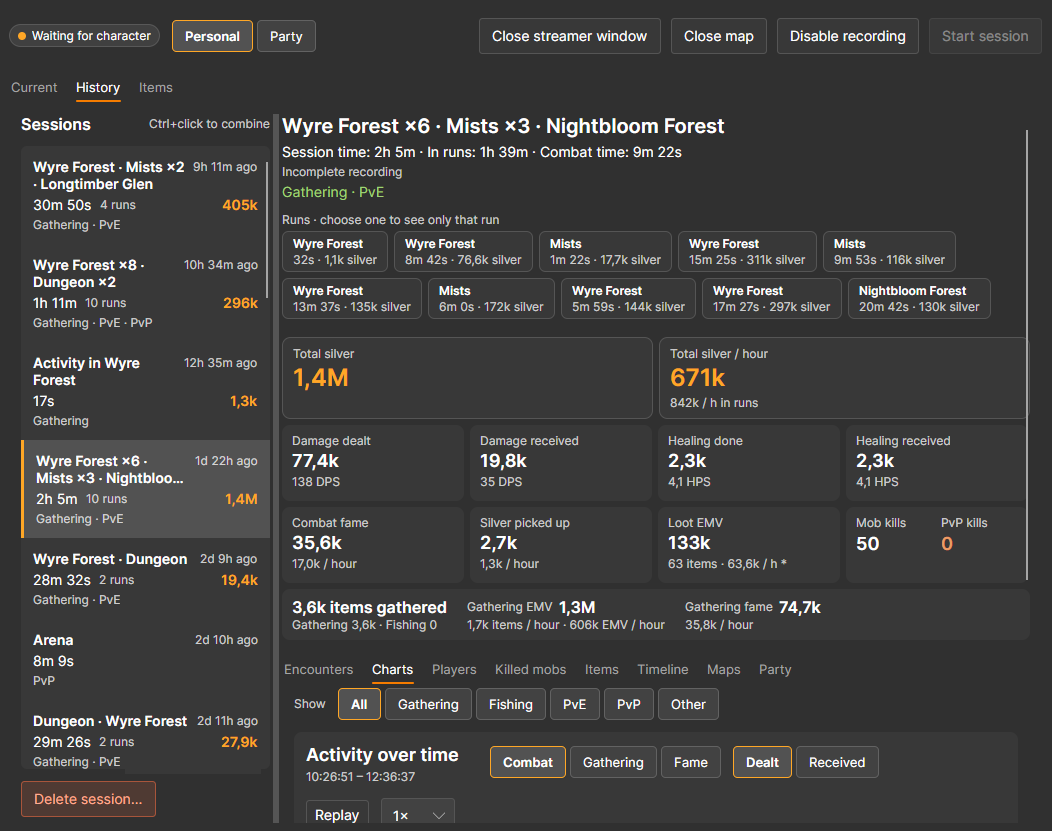
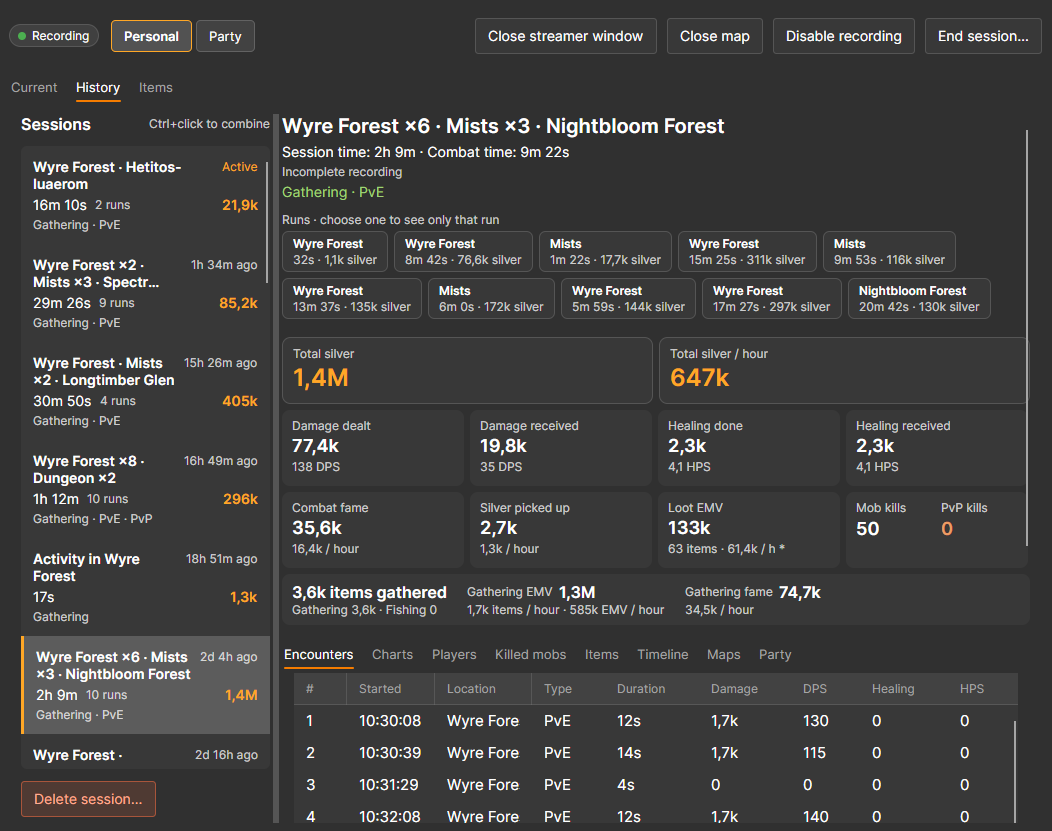
Show the new session clock in the README screenshots

diff --git a/README.md b/README.md
@@ -162,6 +162,8 @@ Each dungeon, Mists visit or stretch of open world is a **run** inside the sessi
 
 **Current** shows the session you're playing right now: total silver and silver per hour, damage and healing with DPS and HPS, combat fame, silver picked up, loot value, kills, and everything you gathered and fished. Switch between the whole **Session**, the **Current run** or the **Last X hours**. A chart at the bottom follows the last 5, 10 or 15 minutes.
 
+![The Current tab during a session](docs/screenshots/activity-current.png)
+
 ### History
 
 **History** lists every saved session with its zones, length and silver. Pick one to see the same totals, then choose a run to see only that part. The tabs below break the session down into encounters, charts, players, killed mobs, items, a timeline, the maps you visited and your party.
